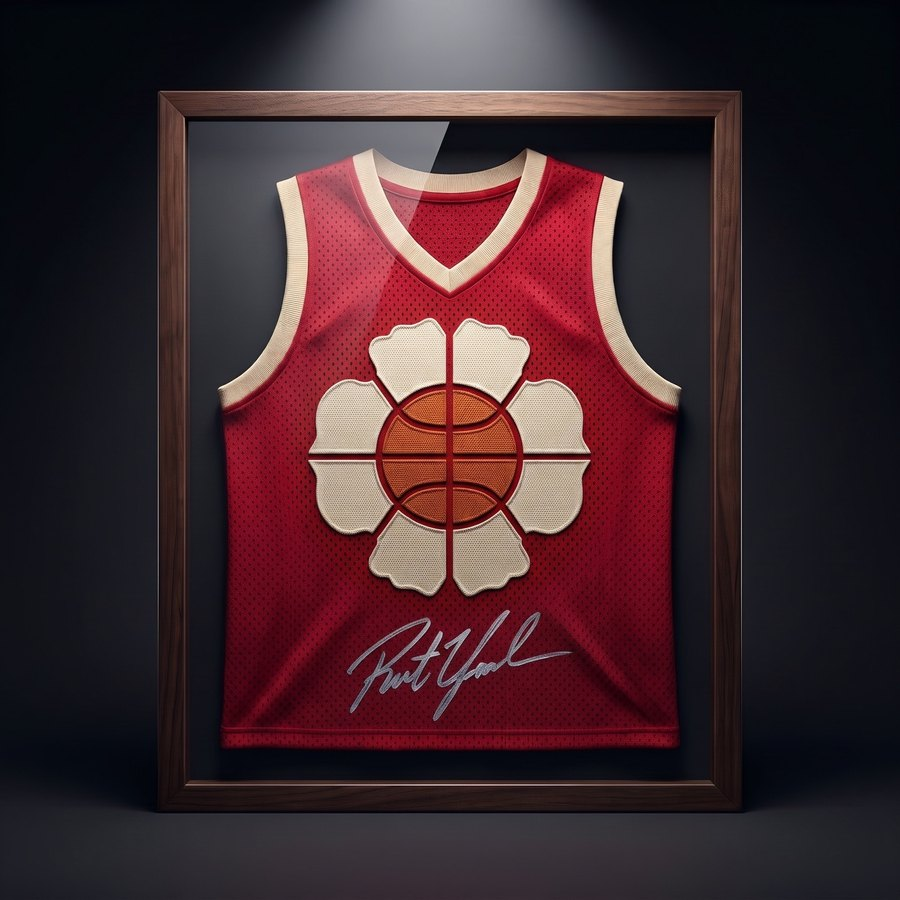
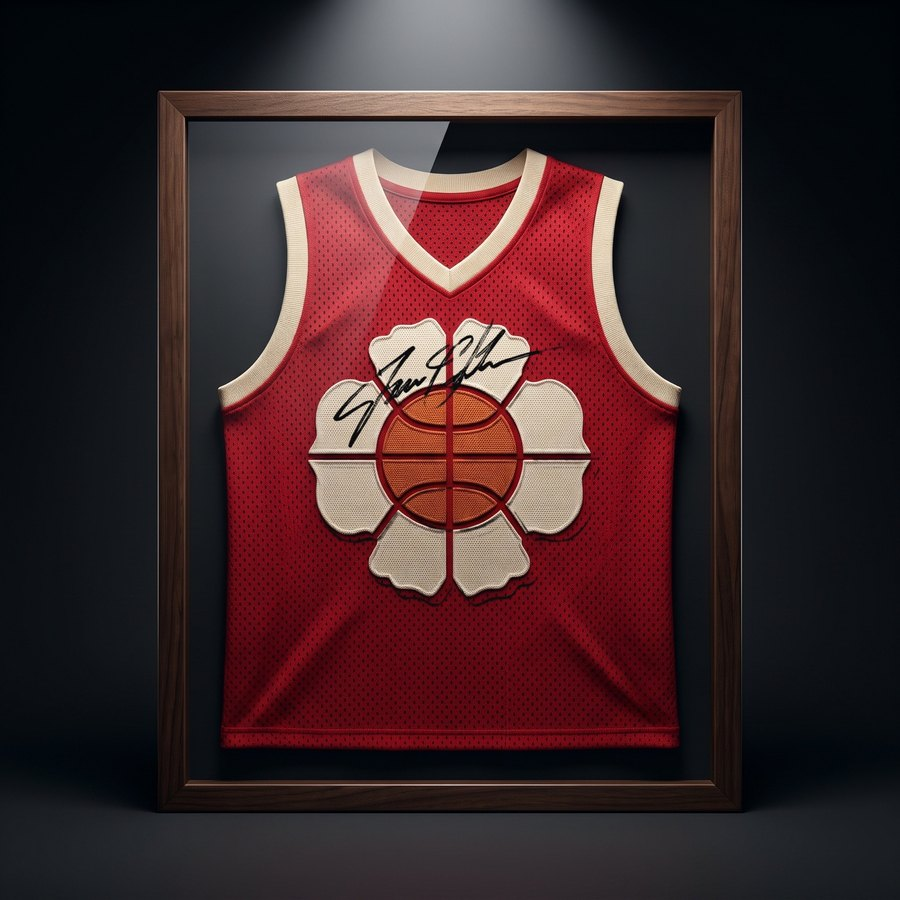
hotg-brand: midcourt, petal-signed jersey, phone tap fix
Claude-Session: https://claude.ai/code/session_01RsgFcg5nZJo1Bxv41FVakU

diff --git a/ballast-site/hotg-brand/index.html b/ballast-site/hotg-brand/index.html
@@ -134,7 +134,8 @@ footer svg{height:18px;width:auto;fill:var(--ink)}
 .fld-c{all:unset;cursor:pointer;aspect-ratio:1;display:grid;place-items:center;border-radius:12px}
 .fld-c .fw{display:grid;place-items:center;width:100%;height:100%;will-change:transform}
 .fld-c{position:relative}.fld-c svg{width:88%;height:88%;overflow:visible;transition:transform 1.4s cubic-bezier(.2,.7,.2,1)}
-.fld-grab{position:absolute;left:50%;top:50%;width:46%;height:46%;transform:translate(-50%,-50%);border-radius:50%;cursor:grab;touch-action:none}.fld-grab:active{cursor:grabbing}
+.fld-grab{position:absolute;left:50%;top:50%;width:46%;height:46%;transform:translate(-50%,-50%);border-radius:50%;cursor:grab;touch-action:none}
+@media (hover:none){.fld-grab{touch-action:pan-y}}.fld-grab:active{cursor:grabbing}
 .fld-c.on svg{transform:scale(1.1)}
 .fld-c:focus-visible{outline:2px solid #F7F3EA;outline-offset:2px}
 .fld-sel{position:absolute;border:3px solid #F7F3EA;border-radius:16px;opacity:0;pointer-events:none;transition:left 2.4s cubic-bezier(.65,0,.35,1),top 2.4s cubic-bezier(.65,0,.35,1),width .6s,height .6s,opacity .8s,filter .8s}
@@ -238,9 +239,9 @@ function tick(){if(hov>=0||rolling)return;let n;do{n=Math.floor(Math.random()*g.
  if(picks%2===0&&!RM)setTimeout(()=>{if(hov<0)roll(n)},2700)}
 function start(){clearInterval(timer);if(!RM)timer=setInterval(tick,6000)}
 build();requestAnimationFrame(()=>{show(Math.floor(g.children.length/2)+2,true);start()});
-g.addEventListener('pointerover',e=>{const c=e.target.closest('.fld-c');if(!c||rolling)return;hov=+c.dataset.i;show(hov)});
+let tapT=0;g.addEventListener('pointerover',e=>{const c=e.target.closest('.fld-c');if(!c||rolling)return;if(e.pointerType!=='mouse'){clearTimeout(tapT);hov=-1;show(+c.dataset.i,true);tapT=setTimeout(start,0);return}hov=+c.dataset.i;show(hov)});
 g.addEventListener('pointerleave',()=>{hov=-1;if(cur>=0&&!rolling)show(cur)});
-g.addEventListener('focusin',e=>{const c=e.target.closest('.fld-c');if(c){hov=+c.dataset.i;show(hov)}});
+g.addEventListener('focusin',e=>{const c=e.target.closest('.fld-c');if(c&&c.matches(':focus-visible')){hov=+c.dataset.i;show(hov)}});
 g.addEventListener('focusout',()=>{hov=-1});
 let rt;addEventListener('resize',()=>{clearTimeout(rt);rt=setTimeout(()=>{build();show(Math.min(cur,g.children.length-1),true)},200)});
 window.HOTGroll=i=>roll(i??cur);
@@ -282,6 +283,7 @@ svg.tabIndex=0;})()</script>
 <div class="row "><figure style="--w:1"><img src="img/page-src-a3-lock.jpg" alt="Lockup" width="2400" height="1100" loading="lazy"><figcaption>Lockup</figcaption></figure></div>
 <div class="row wide"><figure style="--w:1"><img src="img/merch-tees-stack3-f.jpg" alt="History of the Game, stacked" width="1578" height="988" loading="lazy"><figcaption>History of the Game, stacked</figcaption></figure></div>
 <div class="row "><figure style="--w:0.5"><img src="img/merch-tees-stack3-d.jpg" alt="One bloom" width="1400" height="922" loading="lazy"><figcaption>One bloom</figcaption></figure></div>
+<div class="row wide"><figure style="--w:1"><img src="img/relic-court-midcourt.jpg" alt="Midcourt" width="2000" height="1116" loading="lazy"><figcaption>Midcourt</figcaption></figure></div>
 <section class="band" style="--b:#F2A51A;--f:#1A1716"><div class="in"><span class="no">02</span><h2>Materials</h2><p>Metal, enamel, leather, silicone</p></div></section>
 <div class="grid g4 "><figure style="--w:0.25"><img src="img/hero-mat-met-red.jpg" alt="Red metal" width="900" height="900" loading="lazy"><figcaption>Red metal</figcaption></figure><figure style="--w:0.25"><img src="img/hero-mat-met-green.jpg" alt="Green metal" width="900" height="900" loading="lazy"><figcaption>Green metal</figcaption></figure><figure style="--w:0.25"><img src="img/hero-mat-met-blue.jpg" alt="Blue metal" width="900" height="900" loading="lazy"><figcaption>Blue metal</figcaption></figure><figure style="--w:0.25"><img src="img/hero-mat-met-ball.jpg" alt="White enamel" width="900" height="900" loading="lazy"><figcaption>White enamel</figcaption></figure><figure style="--w:0.25"><img src="img/hero-mat-chrome.jpg" alt="Chrome" width="900" height="900" loading="lazy"><figcaption>Chrome</figcaption></figure><figure style="--w:0.25"><img src="img/hero-mat-gold.jpg" alt="Gold" width="900" height="900" loading="lazy"><figcaption>Gold</figcaption></figure><figure style="--w:0.25"><img src="img/hero-mat-jade.jpg" alt="Jade" width="900" height="900" loading="lazy"><figcaption>Jade</figcaption></figure><figure style="--w:0.25"><img src="img/hero-mat-bronze.jpg" alt="Aged bronze" width="900" height="900" loading="lazy"><figcaption>Aged bronze</figcaption></figure></div>
 <div class="row wide"><figure style="--w:1"><img src="img/merch-hat-hat-pins.jpg" alt="Every metal, pinned" width="2048" height="2048" loading="lazy"><figcaption>Every metal, pinned</figcaption></figure></div>
